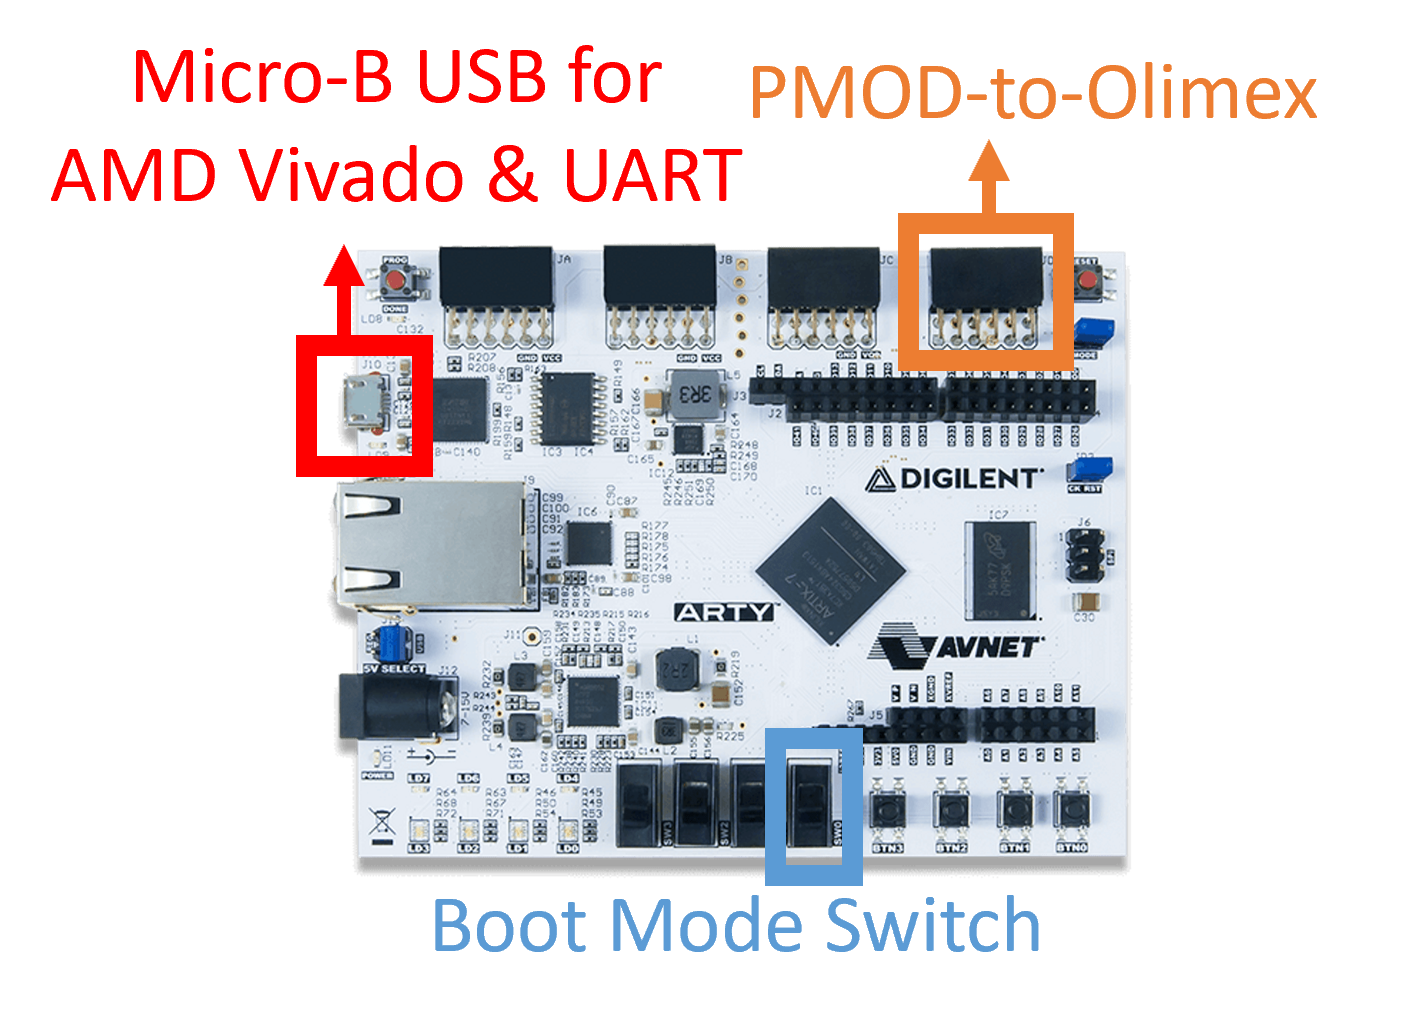
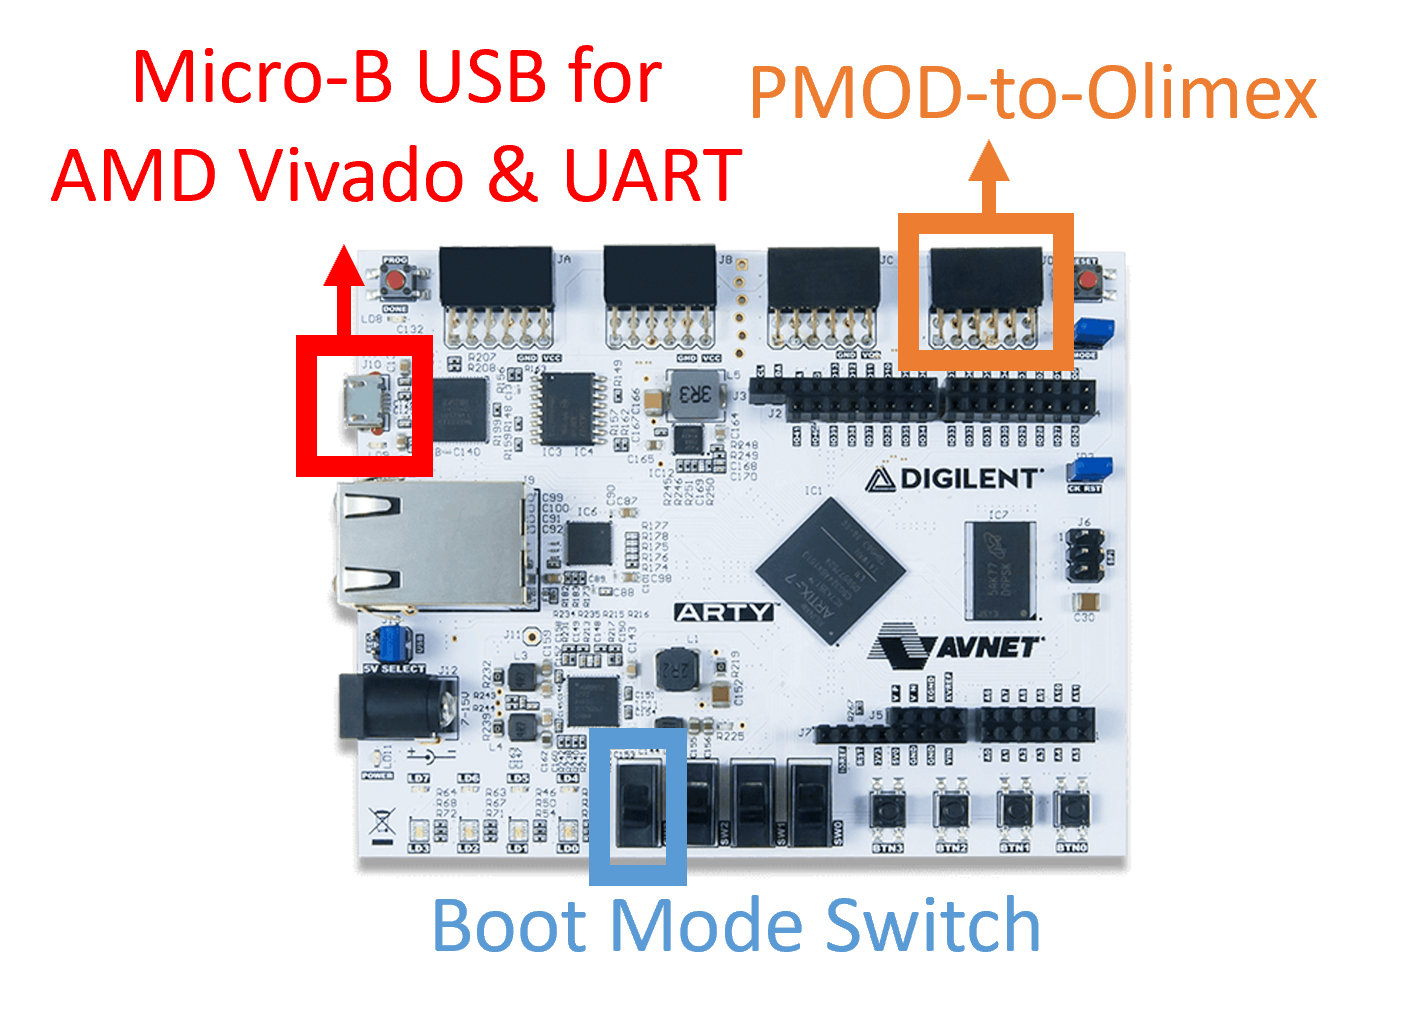
o. bugfixs

Changed region(s): [[0.5286, 0.697, 0.6219, 0.8788], [0.4042, 0.697, 0.4975, 0.8788]]

diff --git a/rvx-tutorials-flash.html b/rvx-tutorials-flash.html
@@ -236,7 +236,8 @@ inst) Check whether the application is working properly.</code></pre></div>
 Application Binary to Flash Memory</h1>
 <div style="background-color: #1e1e1e; color: #d4d4d4; font-family: 'Courier New', Courier, monospace; padding: 0.5em 0.75em; border-radius: 6px; margin: 1em 0; font-size: 1em; line-height: 1.4;"><pre style="margin: 0; white-space: pre-wrap;"><code>cmd) cd #(fpga dir)
 cmd) make flash_server
-cmd) make hello.flash
+cmd) make printf
+cmd) make hello.flash BUILD_MODE=release
 inst) Set the boot mode switch to ON.
 inst) Press the reset button on the FPGA board.
 inst) Check whether the application is working properly.</code></pre></div>